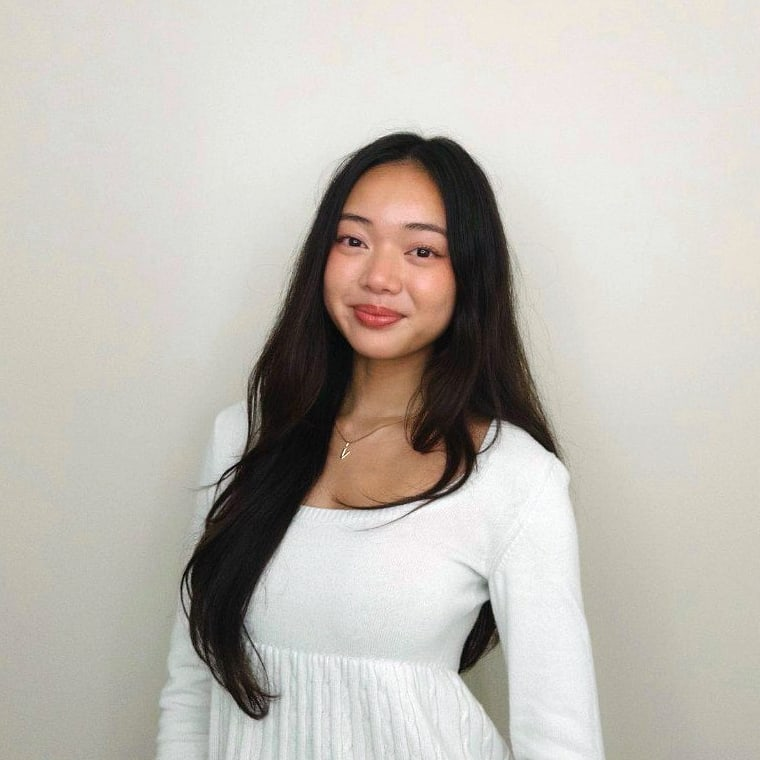
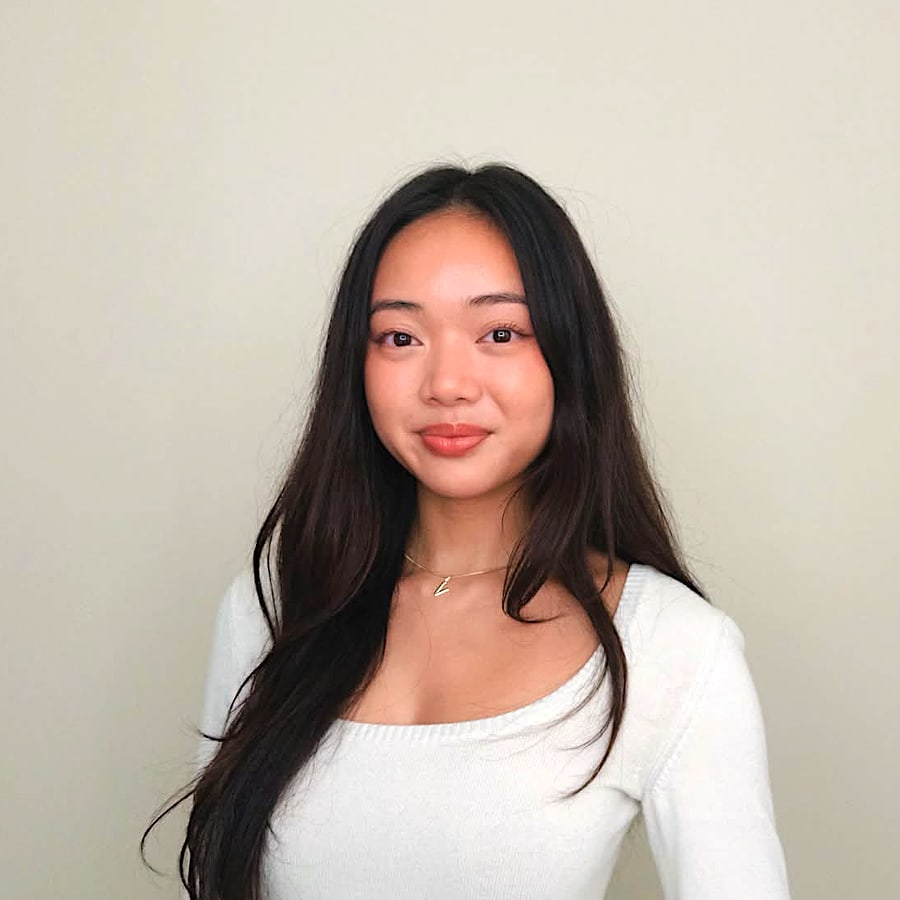
New portrait with a flip-to-paper-collage polaroid
Warm-graded, centered portrait on the front; clicking (or pressing
Enter/Space) flips the polaroid in 3D to a paper-cut collage portrait
on the back.

Changed region(s): [[0.1513, 0.1513, 0.8776, 1.0]]

diff --git a/index.html b/index.html
@@ -8,7 +8,7 @@
   <link rel="preconnect" href="https://fonts.googleapis.com" />
   <link rel="preconnect" href="https://fonts.gstatic.com" crossorigin />
   <link href="https://fonts.googleapis.com/css2?family=DM+Sans:opsz,wght@9..40,400;9..40,500;9..40,600;9..40,700;9..40,800&family=Space+Mono&display=swap" rel="stylesheet" />
-  <link rel="stylesheet" href="styles.css?v=16" />
+  <link rel="stylesheet" href="styles.css?v=18" />
 </head>
 <body>
   <!-- Shared SVG filters -->
@@ -49,6 +49,22 @@
       <feComposite in="soft" in2="cut" operator="arithmetic" k1="1" result="textured" />
       <feComposite in="textured" in2="cut" operator="in" result="shape" />
       <feDropShadow in="shape" dx="0" dy="4" stdDeviation="4" flood-color="#4a3328" flood-opacity="0.22" />
+    </filter>
+    <filter id="paper-cut-soft" x="-10%" y="-10%" width="120%" height="120%">
+      <feTurbulence type="fractalNoise" baseFrequency="0.02" numOctaves="3" seed="9" result="edge" />
+      <feDisplacementMap in="SourceGraphic" in2="edge" scale="4" xChannelSelector="R" yChannelSelector="G" result="cut" />
+      <feTurbulence type="fractalNoise" baseFrequency="0.8" numOctaves="3" result="grain" />
+      <feDiffuseLighting in="grain" surfaceScale="1.4" lighting-color="#ffffff" result="lit">
+        <feDistantLight azimuth="45" elevation="58" />
+      </feDiffuseLighting>
+      <feComponentTransfer in="lit" result="soft">
+        <feFuncR type="linear" slope="0.22" intercept="0.8" />
+        <feFuncG type="linear" slope="0.22" intercept="0.8" />
+        <feFuncB type="linear" slope="0.22" intercept="0.8" />
+      </feComponentTransfer>
+      <feComposite in="soft" in2="cut" operator="arithmetic" k1="1" result="textured" />
+      <feComposite in="textured" in2="cut" operator="in" result="shape" />
+      <feDropShadow in="shape" dx="0" dy="3" stdDeviation="3" flood-color="#4a3328" flood-opacity="0.22" />
     </filter>
   </svg>
 
@@ -126,13 +142,60 @@
         <span class="tape-label">About</span>
       </div>
       <div class="about-grid">
-        <figure class="paper polaroid reveal" style="--paper: var(--white); --tilt: -2.5deg">
-          <span class="tape tape-top"></span>
-          <div class="polaroid-photo">
-            <img src="images/vivian.jpg?v=5" alt="Portrait of Vivian Tran" width="760" height="760" loading="lazy" decoding="async" />
+        <div class="flip-wrap reveal">
+          <div class="flip-card" id="flipCard" role="button" tabindex="0" aria-pressed="false" aria-label="Flip the photo to see a paper-collage version">
+            <div class="flip-inner">
+              <!-- Front: photo -->
+              <figure class="paper polaroid side side-front" style="--paper: var(--white)">
+                <span class="tape tape-top"></span>
+                <div class="polaroid-photo">
+                  <img src="images/vivian.jpg?v=6" alt="Portrait of Vivian Tran" width="900" height="900" loading="lazy" decoding="async" />
+                </div>
+                <figcaption>Springfield, VA</figcaption>
+              </figure>
+              <!-- Back: paper-collage portrait -->
+              <figure class="paper polaroid side side-back" style="--paper: var(--white)" aria-hidden="true">
+                <span class="tape tape-top"></span>
+                <div class="polaroid-photo">
+                  <svg viewBox="0 0 300 300" class="collage" role="img" aria-label="Paper-collage portrait of Vivian">
+                    <rect width="300" height="300" fill="#f6dbe1" />
+                    <!-- background scraps -->
+                    <path filter="url(#paper-cut)" d="M-10 196 96 176 132 312H-10Z" fill="#ecd9a0" />
+                    <path filter="url(#paper-cut)" d="M206 -10h104v128l-84 18Z" fill="#b4c2a5" />
+                    <path filter="url(#paper-cut)" d="M-10 -10h96l-26 60-70 10Z" fill="#fbf7f1" />
+                    <!-- hair (back) -->
+                    <path filter="url(#paper-cut-soft)" d="M150 52c-46 0-66 32-68 82-2 46-4 92-12 140-2 14 8 26 22 26h116c14 0 24-12 22-26-8-48-10-94-12-140-2-50-22-82-68-82Z" fill="#2b1f1c" />
+                    <!-- neck + chest -->
+                    <path filter="url(#torn)" d="M134 168h32l4 34c10 4 24 8 30 14v46H100v-46c6-6 20-10 30-14Z" fill="#eab79a" />
+                    <!-- sweater with square neckline -->
+                    <path filter="url(#paper-cut)" d="M54 300c2-46 16-74 50-88l8-2v44h76v-44l8 2c34 14 48 42 50 88Z" fill="#fbf7f1" />
+                    <path d="M112 254h76" stroke="#e7e1d6" stroke-width="3" />
+                    <!-- face -->
+                    <ellipse filter="url(#paper-cut-soft)" cx="150" cy="124" rx="37" ry="46" fill="#f0c2a4" />
+                    <!-- front hair framing the face, centre part -->
+                    <path filter="url(#paper-cut-soft)" d="M150 72c-28 0-42 22-44 52-2 38-6 80-14 124-2 12 4 22 14 24 2-50 6-96 10-136 4-30 16-56 34-64Z" fill="#2b1f1c" />
+                    <path filter="url(#paper-cut-soft)" d="M150 72c28 0 42 22 44 52 2 38 6 80 14 124 2 12-4 22-14 24-2-50-6-96-10-136-4-30-16-56-34-64Z" fill="#2b1f1c" />
+                    <!-- features -->
+                    <path d="M126 108q10-5 18 0M156 108q8-5 18 0" stroke="#2b1f1c" stroke-width="2.4" fill="none" stroke-linecap="round" />
+                    <ellipse cx="135" cy="119" rx="4.6" ry="3.4" fill="#2b1f1c" />
+                    <ellipse cx="165" cy="119" rx="4.6" ry="3.4" fill="#2b1f1c" />
+                    <ellipse filter="url(#torn)" cx="124" cy="137" rx="10" ry="6" fill="#ea9fa6" opacity="0.85" />
+                    <ellipse filter="url(#torn)" cx="176" cy="137" rx="10" ry="6" fill="#ea9fa6" opacity="0.85" />
+                    <path d="M147 124q3 9 6 0" stroke="#c98a73" stroke-width="2" fill="none" stroke-linecap="round" />
+                    <path filter="url(#torn)" d="M139 148q11-5 22 0q-11 10-22 0Z" fill="#c8605f" />
+                    <!-- gold V necklace -->
+                    <path d="M130 196q20 16 40 0" stroke="#c9a24a" stroke-width="1.6" fill="none" />
+                    <path d="M146 204l4 9 4-9" stroke="#c9a24a" stroke-width="2.2" fill="none" stroke-linejoin="round" />
+                    <!-- doodles -->
+                    <path d="M238 168l10-6M244 184l12 0M236 152l6-10" stroke="#2a2522" stroke-width="3.5" stroke-linecap="round" />
+                  </svg>
+                </div>
+                <figcaption>Cut &amp; pasted</figcaption>
+              </figure>
+            </div>
           </div>
-          <figcaption>Springfield, VA</figcaption>
-        </figure>
+          <p class="flip-hint">Click the photo to flip</p>
+        </div>
 
         <div class="about-text reveal">
           <h2>Hi, I'm Vivian.</h2>
@@ -293,6 +356,6 @@
     </div>
   </dialog>
 
-  <script src="script.js?v=16"></script>
+  <script src="script.js?v=18"></script>
 </body>
 </html>

diff --git a/styles.css b/styles.css
@@ -206,7 +206,17 @@ h1 { font-size: clamp(2.7rem, 5.4vw, 4.2rem); font-weight: 800; margin: 0 0 0.5r
 
 /* About */
 .about-grid { display: grid; grid-template-columns: 0.7fr 1.3fr; gap: 4.5rem; align-items: center; }
-.polaroid { margin: 0; padding: 14px 14px 0; max-width: 320px; justify-self: center; }
+.flip-wrap { width: 100%; max-width: 320px; justify-self: center; text-align: center; }
+.flip-card { perspective: 1400px; cursor: pointer; transform: rotate(-2.5deg); outline-offset: 8px; }
+.flip-inner { position: relative; transform-style: preserve-3d; transition: transform 0.8s cubic-bezier(.3, 1.25, .5, 1); }
+.flip-card:hover .flip-inner { transform: rotateY(-8deg); }
+.flip-card.flipped .flip-inner { transform: rotateY(180deg); }
+.flip-card.flipped:hover .flip-inner { transform: rotateY(172deg); }
+.side { backface-visibility: hidden; -webkit-backface-visibility: hidden; }
+.side-back { position: absolute; inset: 0; transform: rotateY(180deg); }
+.flip-hint { margin: 1.1rem 0 0; font: 0.68rem var(--mono); letter-spacing: 0.06em; text-transform: uppercase; color: var(--ink-soft); }
+.polaroid { margin: 0; padding: 14px 14px 0; }
+.collage { width: 100%; height: auto; }
 .polaroid-photo { overflow: hidden; }
 .polaroid-photo img { width: 100%; height: auto; aspect-ratio: 1; object-fit: cover; }
 .polaroid figcaption { padding: 0.9rem 0 1rem; text-align: center; font: 0.75rem var(--mono); letter-spacing: 0.06em; color: var(--ink-soft); }

diff --git a/script.js b/script.js
@@ -201,6 +201,21 @@ bunny.addEventListener("click", () => {
   blink();
 });
 
+// ---------- Flip the About photo to its paper-collage side ----------
+const flipCard = document.getElementById("flipCard");
+const flipHint = document.querySelector(".flip-hint");
+function flip() {
+  const flipped = flipCard.classList.toggle("flipped");
+  flipCard.setAttribute("aria-pressed", flipped);
+  flipCard.querySelector(".side-front").setAttribute("aria-hidden", flipped);
+  flipCard.querySelector(".side-back").setAttribute("aria-hidden", !flipped);
+  flipHint.textContent = flipped ? "Click to flip back" : "Click the photo to flip";
+}
+flipCard.addEventListener("click", flip);
+flipCard.addEventListener("keydown", (e) => {
+  if (e.key === "Enter" || e.key === " ") { e.preventDefault(); flip(); }
+});
+
 // ---------- Draggable skill stickers ----------
 const board = document.getElementById("stickerBoard");
 const STICKER_STYLES = ["", "tone-pink", "tone-sage", "tone-butter"];
